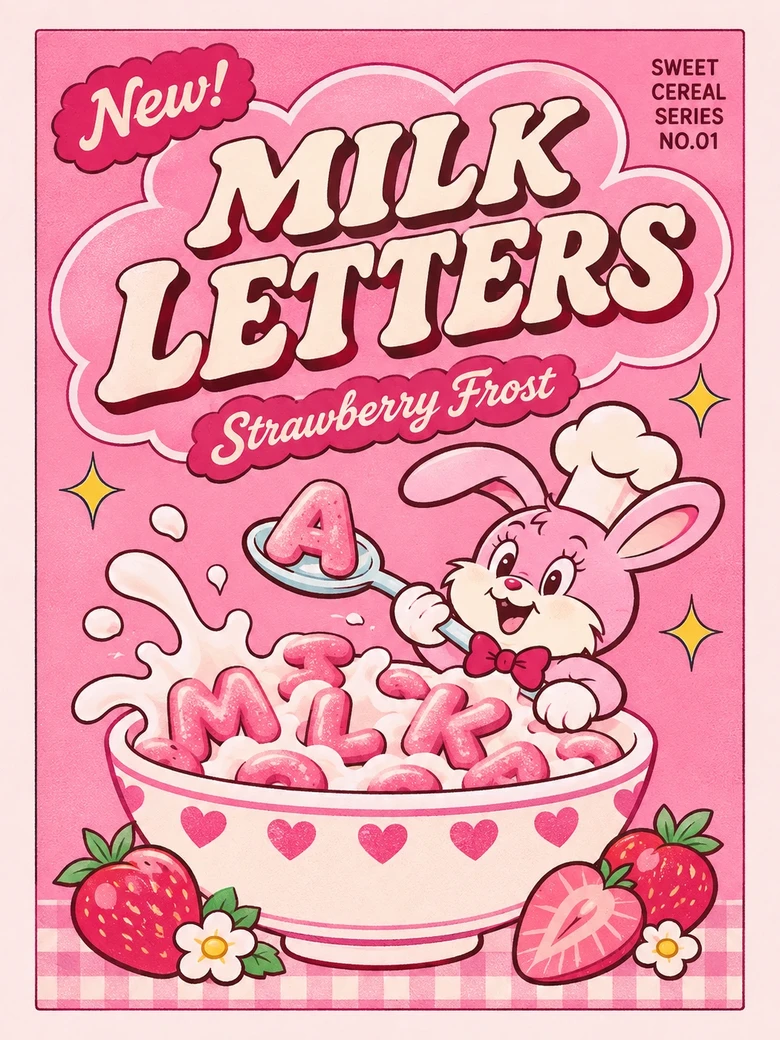
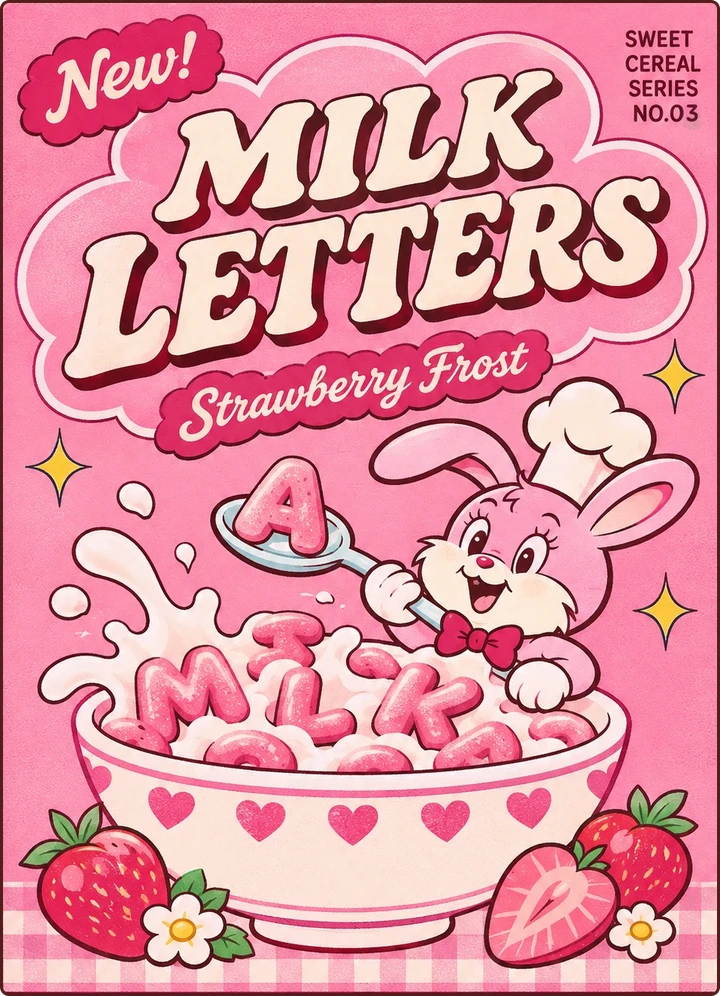
박스 앞면 5종 교체, 시리얼 순서 변경

diff --git a/index.html b/index.html
@@ -101,12 +101,12 @@ const tableEl=$('table'), bgC=$('bg'), dishC=$('dish'), plateEl=$('plate'), milk
 const TYPES=[
   {ko:'알록달록 퍼프',en:'Fruity Puffs',desc:'과일색으로 물든, 송송 구멍 난 퍼프',surf:'puff',
    line:'#28356f',box:'#cfe5f6',bowl:'#f4b6c8',colors:['#e8857f','#f3c447','#a5b25a','#ee9241','#ecd39c'],dome:.07,relief:7,shine:34,gloss:.2},
-  {ko:'초코 크런치',en:'Choco Crunch',desc:'반질반질 코코아로 코팅한 진한 초코',surf:'choco',
-   line:'#6a3624',box:'#dcbba6',bowl:'#f3e2c8',colors:['#94603f','#a36d4a','#865437'],dome:.075,relief:9,shine:55,gloss:.42},
   {ko:'황금 콘플레이크',en:'Golden Flakes',desc:'바삭하게 구워 결이 살아 있는 황금빛',surf:'flake',
    line:'#c77a1a',box:'#f6d77f',bowl:'#9fc3ea',colors:['#ffbf40','#ffb030','#ffcb57'],dome:.08,relief:10,shine:20,gloss:.02,matte:1},
   {ko:'딸기 프로스트',en:'Strawberry Frost',desc:'설탕 알갱이가 반짝이는 분홍 딸기맛',surf:'frost',
    line:'#d0607f',box:'#f7c4d2',bowl:'#b9b8ef',colors:['#ec9a9c','#e5808a','#f1b0ae','#de7480'],dome:.07,relief:8,shine:70,gloss:.3},
+  {ko:'초코 크런치',en:'Choco Crunch',desc:'반질반질 코코아로 코팅한 진한 초코',surf:'choco',
+   line:'#6a3624',box:'#dcbba6',bowl:'#f3e2c8',colors:['#94603f','#a36d4a','#865437'],dome:.075,relief:9,shine:55,gloss:.42},
   {ko:'꿀 고리',en:'Honey Rings',desc:'꿀을 입혀 윤기 나는 호박빛 시리얼',surf:'honey',
    line:'#b0701c',box:'#f4c886',bowl:'#c8e3b5',colors:['#e39a3e','#d68a30','#ebab52'],dome:.085,relief:8,shine:20,gloss:.02,matte:1}
 ];
@@ -306,7 +306,7 @@ let plateType=0,plateGeo=null;
 let bowlReady=0;
 // 컬러별 그릇 사진 [파일, 중심x, 중심y, 반지름]
 const BOWLS=[['bowl.webp',994,994,833],['bowl-pink.webp',996,980.5,843],['bowl-cream.webp',997.5,980.5,858],['bowl-yellow.webp',997,985,850]];
-const TYPE_BOWL=[0,2,3,1,2]; // 퍼프=파랑, 초코=크림, 콘플=노랑, 딸기=핑크, 꿀=크림
+const TYPE_BOWL=[0,3,1,2,2]; // 퍼프=파랑, 콘플=노랑, 딸기=핑크, 초코=크림, 꿀=크림
 if(dgl)BOWLS.forEach(([src],unit)=>{ // 그릇·스푼 사진을 접시 셰이더 텍스처로
   const t=dgl.createTexture(),im=new Image();
   im.onload=()=>{dgl.activeTexture(dgl.TEXTURE0+unit);dgl.bindTexture(dgl.TEXTURE_2D,t);dgl.pixelStorei(dgl.UNPACK_PREMULTIPLY_ALPHA_WEBGL,true);
@@ -578,19 +578,15 @@ function wrapText(x,text,X,Y,maxW,lh){const words=text.split(' ');let line='',y=
   for(const w of words){const t=line?line+' '+w:w;if(x.measureText(t).width>maxW&&line){x.fillText(line,X,y);line=w;y+=lh}else line=t}
   x.fillText(line,X,y);return y}
 const INK='#1d1d24';
-const FRONT_IMG={1:'box-choco.webp',3:'box-strawberry.webp',4:'box-honey.webp'}; // 앞면을 통째로 그림으로 쓰는 시리얼
-const frontImgs={},FRONT_INSET=new Set([1,4]);
+const FRONT_IMG={0:'box-fruity.webp',1:'box-gold.webp',2:'box-strawberry.webp',3:'box-choco.webp',4:'box-honey.webp'}; // 시리얼별 앞면 그림
+const frontImgs={};
 for(const [k,src] of Object.entries(FRONT_IMG)){const im=new Image();im.onload=()=>{if(boxType===+k){drawFront(TYPES[k],null);finish(face('front'))}};im.src=src;frontImgs[k]=im}
 function drawFront(t,imgs){
   const x=face('front').ctx;x.clearRect(0,0,BW,BH);
   const ix=TYPES.indexOf(t),fi=frontImgs[ix];
   if(fi&&fi.naturalWidth){
-    if(FRONT_INSET.has(ix)){ // 흰 테두리 안에 작게 + 얇은 아웃라인 (딸기 박스처럼)
-      const m=14,w=BW-m*2,h=BH-m*2,sw=fi.naturalHeight*w/h;
-      x.fillStyle='#fbf8f3';x.fillRect(0,0,BW,BH);
-      x.save();rr(x,m,m,w,h,4);x.clip();x.drawImage(fi,(fi.naturalWidth-sw)/2,0,sw,fi.naturalHeight,m,m,w,h);x.restore();
-      x.strokeStyle=t.line;x.lineWidth=1;rr(x,m,m,w,h,4);x.stroke();
-    }else x.drawImage(fi,0,0,BW,BH);
+    const m=14; // 흰 종이 위에 테두리 있는 그림을 작게 (그림 자체에 아웃라인·둥근 모서리 있음)
+    x.fillStyle='#fbf8f3';x.fillRect(0,0,BW,BH);x.drawImage(fi,m,m,BW-m*2,BH-m*2);
     return}
   x.fillStyle='#fbf8f3';x.fillRect(0,0,BW,BH);
   x.fillStyle=t.box;rr(x,14,14,BW-28,BH-28,6);x.fill();
